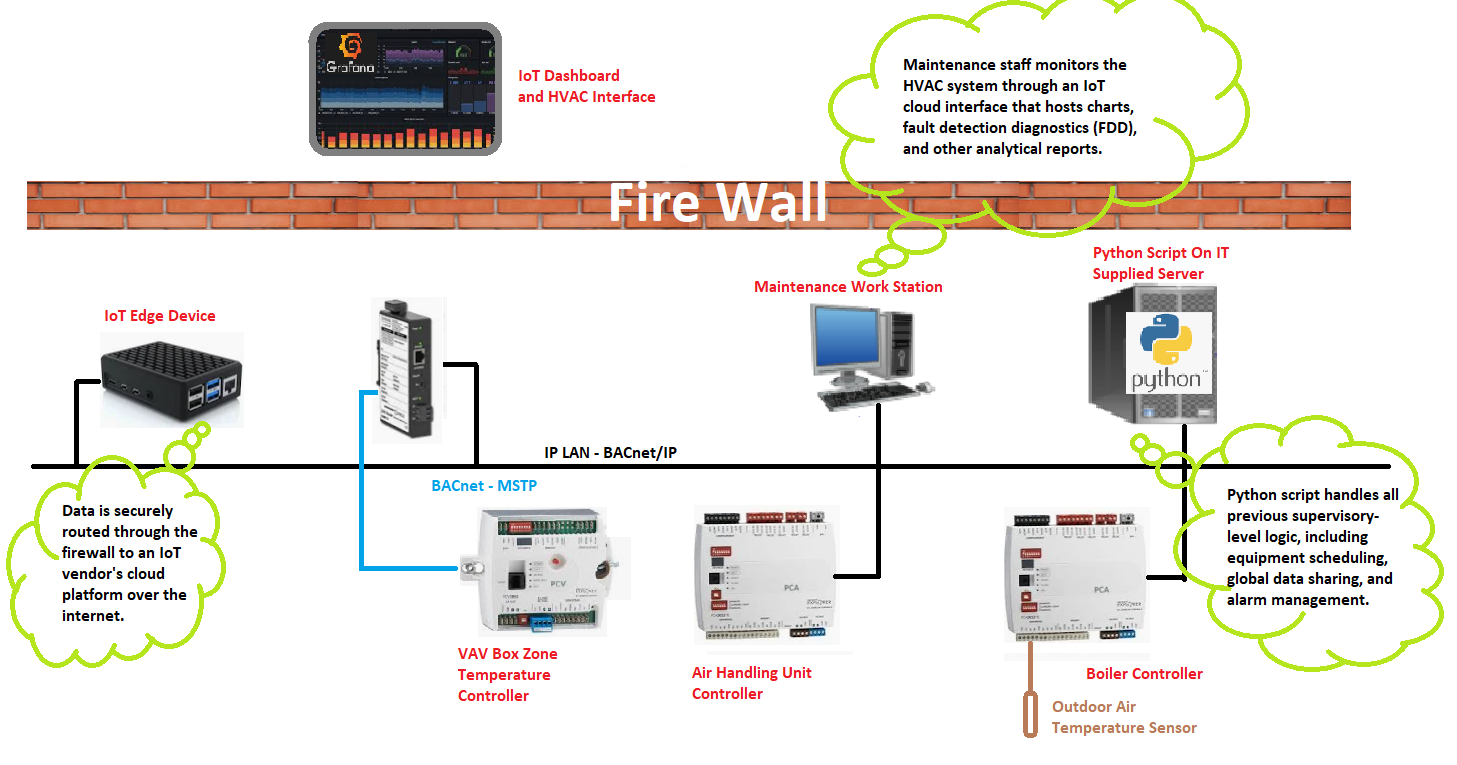
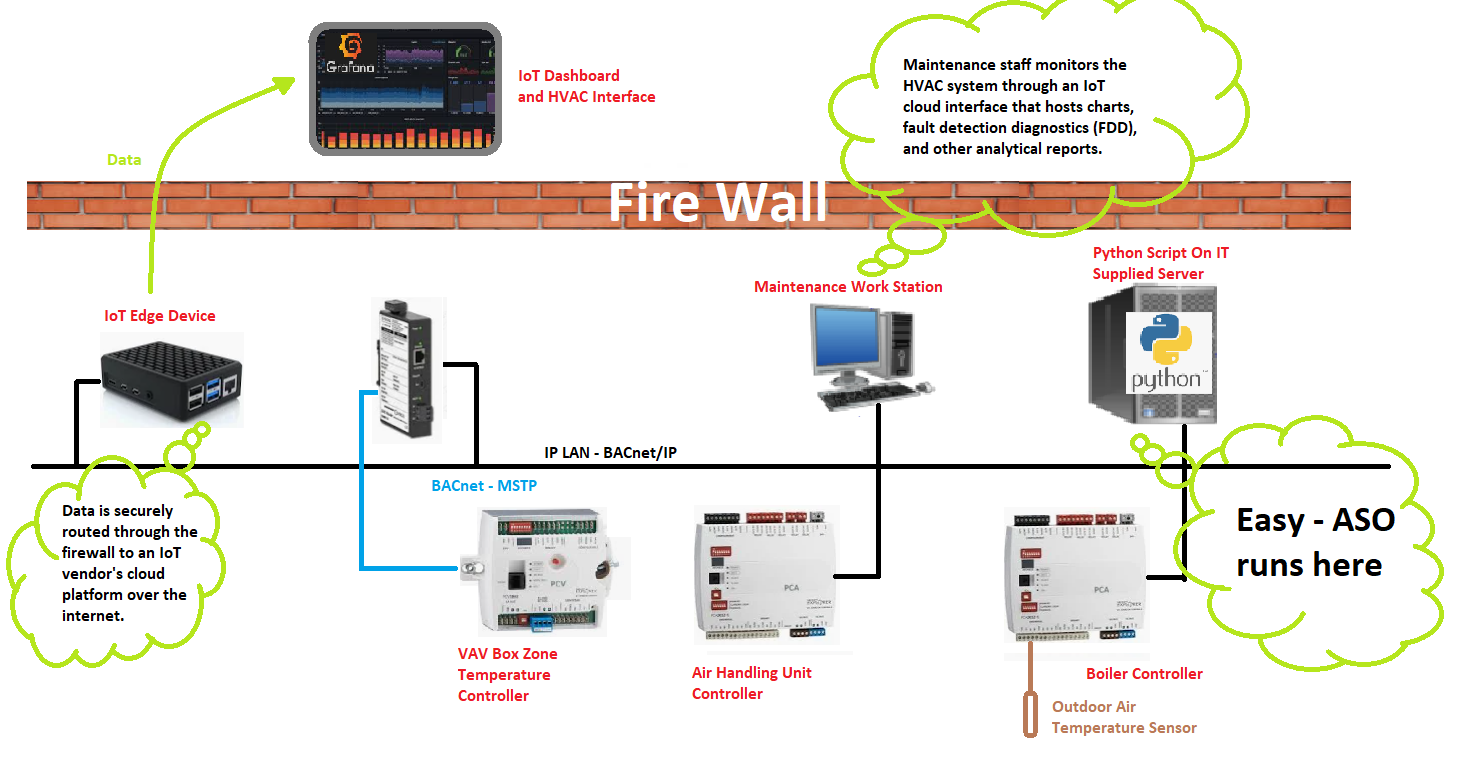
updated readme

diff --git a/README.md b/README.md
@@ -38,13 +38,25 @@ Why cant a BAS be free?
 - [ ] Make tutorials for:
   - Electrical load shed example
   - BAS global variable sharing
-  - AHU Trim and Respond
+  - AHU duct static pressure and temperature setpoint trim and respond (T&R)
+  - AHU demand control ventilation based on G36 and ventilation calcs
+  - VAV box system occupied-standy with occupancy integration to HVAC
   - Overnight building flush
   - Overnight BACnet override realease bot
+  - Heat pump system cold weather staggered start for electrical power management
+  - Electrical load shift
 
-## Schematic: Python Script Deployment Behind the Firewall
+## Future
+- [ ] Explore updating the fake BACnet app by integrating the [BOPTEST](https://ibpsa.github.io/project1-boptest/) project to simulate realistic physics, allowing for safe, non-production testing of easy-aso.
 
+
+## Schematics: 
+
+Easy-aso always operates behind the firewall and can operate with an IoT integration to the building systems.
 ![Schematic of Python script deployment](https://raw.githubusercontent.com/bbartling/easy-aso/develop/new_building.png)
+
+Easy-aso can also operate just fine without an IoT integration to the building systems which would just be traditional operations (OT) technology systems that do not have access to the internet.
+![Schematic of Python script deployment traditional](https://raw.githubusercontent.com/bbartling/easy-aso/develop/traditional_building.png)
 
 ## Getting Started with easy-aso
 Follow the directions below to get the `easy-aso` project on your local linux machine. Until the project is available on PyPI, you can install it locally by following the steps below.
@@ -60,24 +72,18 @@ Navigate into the project directory and install it using `pip`. This will make t
 cd easy-aso
 pip install .
 ```
-See examples directory for how to run files with Python.
-* **TODO** - make tutorial for the fake BACnet device that runs on a rasp pi and running example scripts.
 
 ## Cybersecurity Disclaimer
 
 Easy ASO is designed as an operations technology (OT) application with no built-in cloud connectivity but it is fully capable of anything programmed in Python. Any implementation of cloud connectivity for this app is the responsibility of the user. It is crucial to understand the cybersecurity implications of sending bi-directional signals to building systems.
 
 **Security Best Practices**:
-- Adhere to the highest cybersecurity standards, including network hardening, secure configurations, and regular security audits.
-- Involve your organization's IT department when implementing cloud connectivity to ensure compliance with security policies.
-- Implement access controls, encryption, and secure communication protocols to protect building systems from unauthorized access or cyberattacks.
-
-**Responsibility**:
-The creator of this app and its affiliates take no responsibility for damage to equipment, property, or people resulting from inadequate cybersecurity practices. The provided examples do not include cloud connectivity to minimize risk. Implementing cloud connectivity is at the user's discretion and should be done with the utmost care and adherence to industry security standards.
-
-**Important Note**:
-For any scenarios involving cloud-based control of building systems, it is highly recommended to work closely with cybersecurity professionals to secure all communication channels and minimize potential risks.
-
+- Ensure the safety of your systems by following recommended cybersecurity best practices, including network, VPN, and VM access hardening, secure configurations, and routine security checks.
+- Work closely with the IT team when enabling cloud connectivity to ensure it complies with your organization's security policies.
+- Involve IT in all stages of the project and address any issues related to the implementation of easy-aso.
+- Safeguard building control systems by utilizing access controls, encryption, and secure communication protocols to prevent unauthorized access.
+- Act in the capacity of an ICS security specialist on behalf of your client, and promptly report any vulnerabilities or issues you discover.
+- Develop an incident response plan to ensure the project is prepared for any potential security breaches, enabling swift and effective action from the incident response team should an issue arise during the implementation of easy-aso.
 
 ## License:
 【MIT License】
